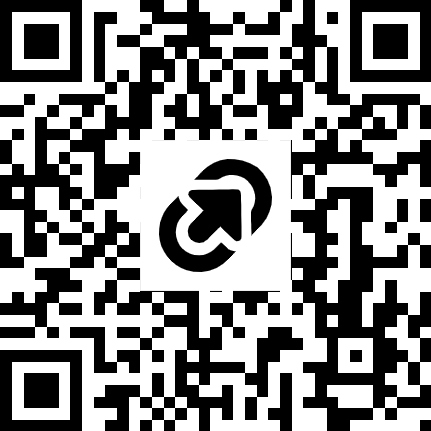
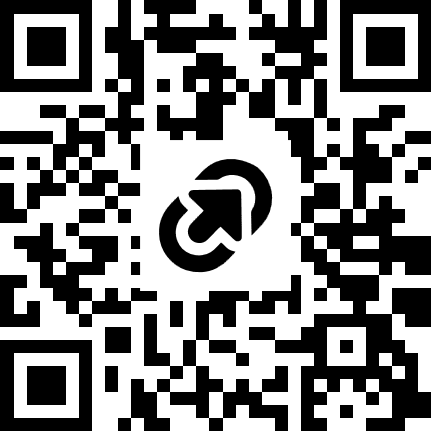
Spring 2026 update

diff --git a/src/components/GetEvents.jsx b/src/components/GetEvents.jsx
@@ -132,41 +132,47 @@ export default function GetEvents(props) {
 
     return <div>
         <h1 className="pageTitle">{props.isUpcoming ? "Upcoming Events" : "Past Events"}</h1>
-        <br/>
-        <div>
-            <Pagination style={{ display: "flex", flexWrap: "wrap", justifyContent: "center" }}> {/* Make pagination responsive to smaller screens */}
-                {
-                    categoryList.map((c) =>{
-                        return <Pagination.Item
-                            key = {c}
-                            active = {type === c}
-                            onClick = {() => setType(c)}
-                        >{c}
-                        </Pagination.Item>
-                    })
-                }
-            </Pagination>
-        </div>
-        <br/>
         {
-            props.isUpcoming &&
-            <Container>
-                <Row style={{width: "100vw", maxWidth: "100%"}}> {/* Keep content positions consistent */}
-                    {
-                        displayEvents(keptEvents, props.isUpcoming, categoryColors)
-                    }
-                </Row>
-            </Container>
-        }
-        {
-            !props.isUpcoming &&
-            <>
-                <Container>
+            keptEvents.length > 0 ?
+            <div>
+                <br/>
+                <div>
+                    <Pagination style={{ display: "flex", flexWrap: "wrap", justifyContent: "center" }}> {/* Make pagination responsive to smaller screens */}
+                        {
+                            categoryList.map((c) =>{
+                                return <Pagination.Item
+                                    key = {c}
+                                    active = {type === c}
+                                    onClick = {() => setType(c)}
+                                >{c}
+                                </Pagination.Item>
+                            })
+                        }
+                    </Pagination>
+                </div>
+                <br/>
                 {
-                        displayEvents(keptEvents, props.isUpcoming, categoryColors)
+                    props.isUpcoming &&
+                    <Container>
+                        <Row style={{width: "100vw", maxWidth: "100%"}}> {/* Keep content positions consistent */}
+                            {
+                                displayEvents(keptEvents, props.isUpcoming, categoryColors)
+                            }
+                        </Row>
+                    </Container>
                 }
-                </Container>
-            </>
+                {
+                    !props.isUpcoming &&
+                    <>
+                        <Container>
+                        {
+                                displayEvents(keptEvents, props.isUpcoming, categoryColors)
+                        }
+                        </Container>
+                    </>
+                }
+            </div>
+            : <h2 style={{color: "white"}}>{`There are no ${props.isUpcoming ? "upcoming" : "past"} events.`}</h2>
         }
     </div>
 }

diff --git a/src/components/Home.jsx b/src/components/Home.jsx
@@ -66,7 +66,7 @@ export default function Home (props) {
                             title="Availability Form"
                             lines={["What meeting times work best for you?"]}
                             Qr={availabilityQR} QRalt="QR Code for Availability Form" imgWidth="20%"
-                            link="https://www.when2meet.com/?32132278-2l8BM"
+                            link="https://tinyurl.com/s25kdh"
                         />
                         <br/>
                         <QRCode
